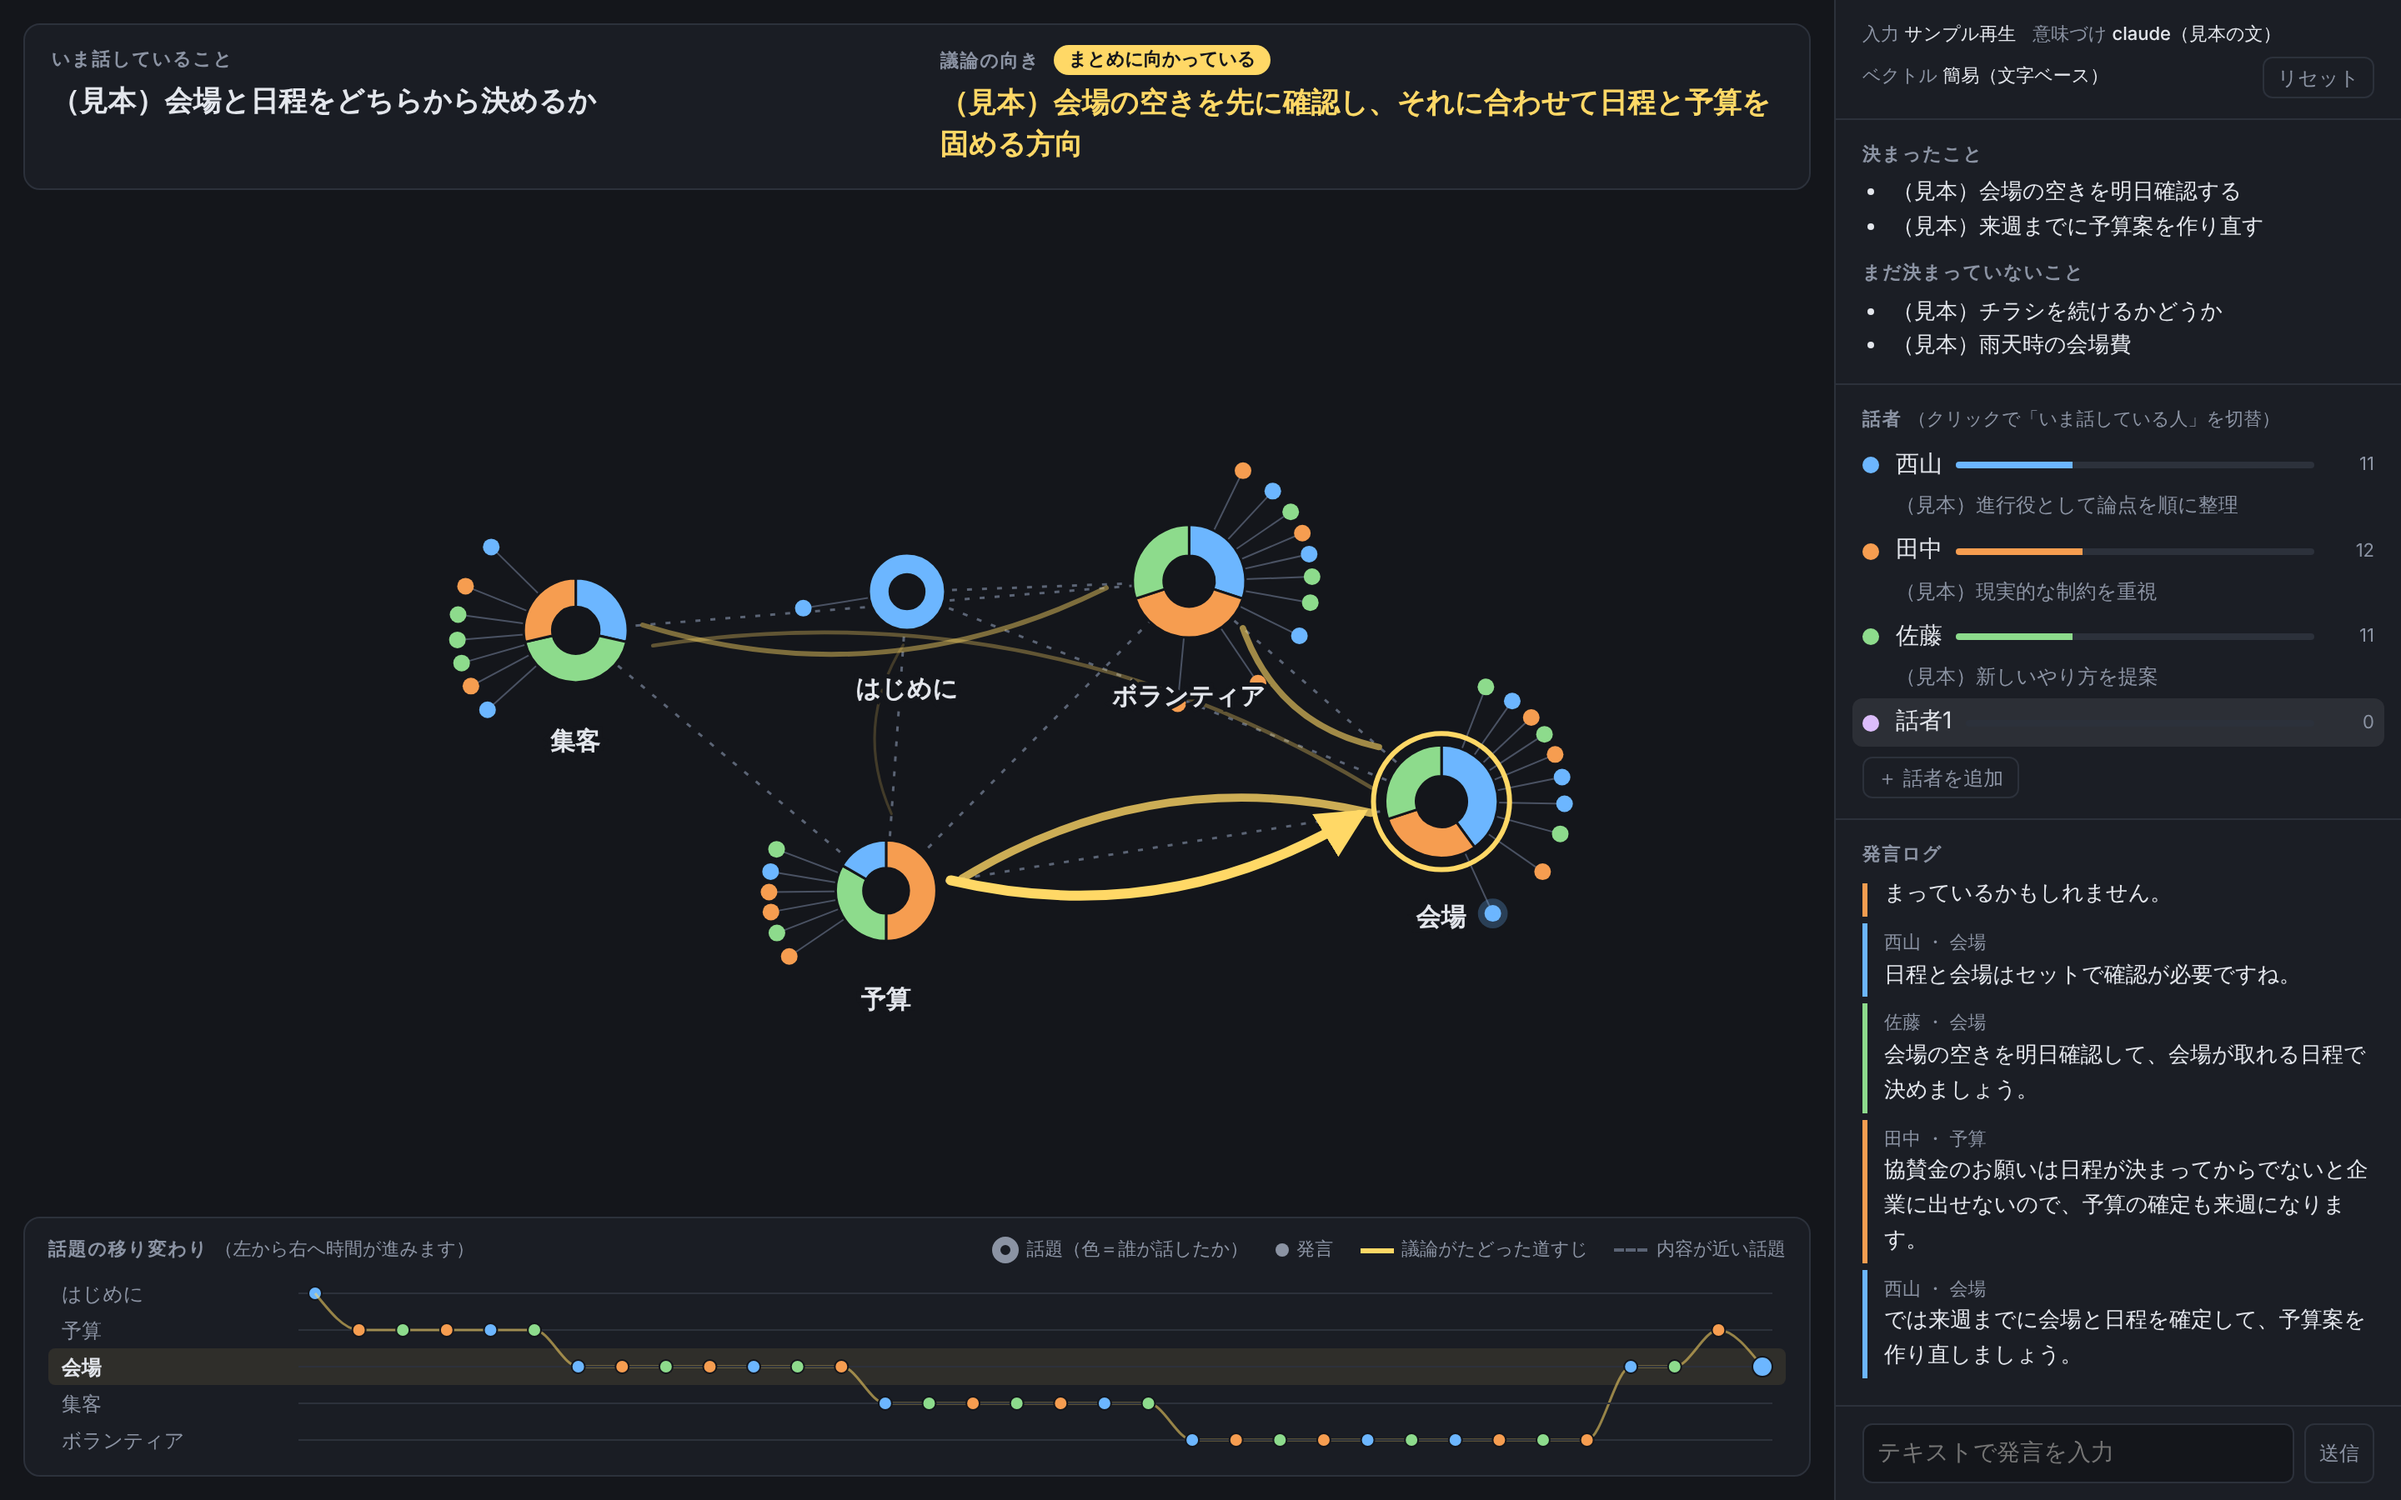
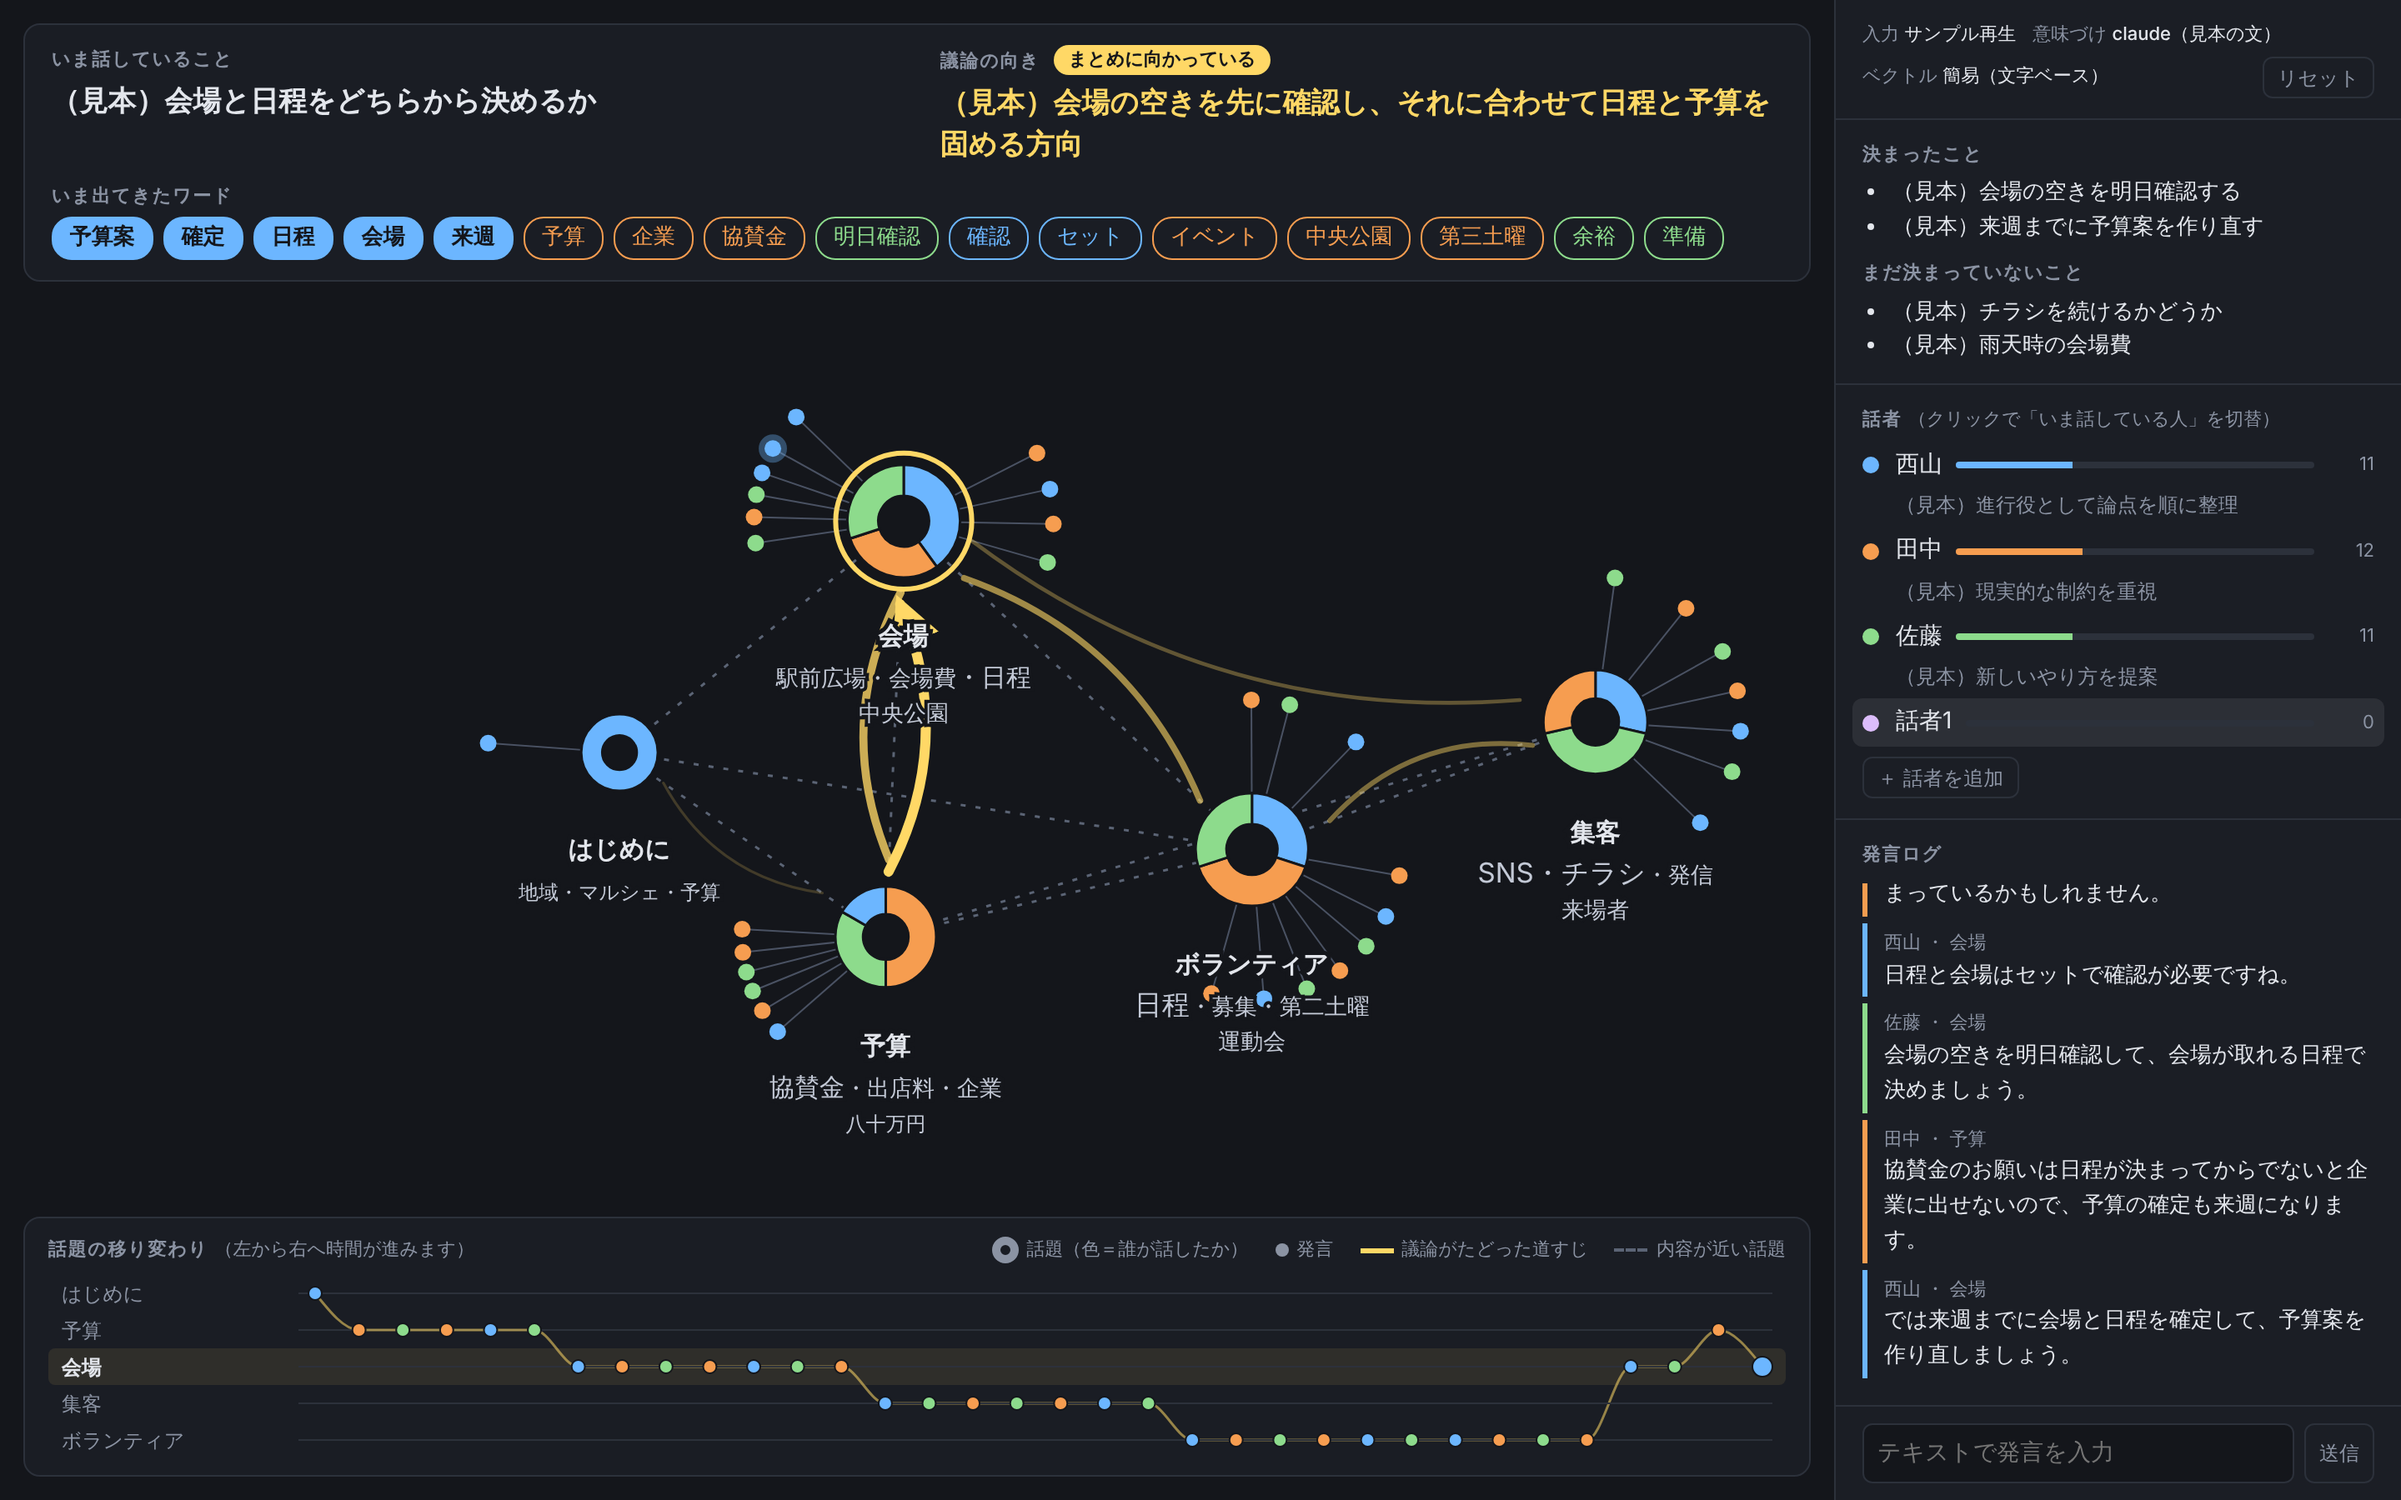
会話マップに出てきたワードを表示する
直近の発言で出た語を上の帯に、話題ごとによく出た語を話題名の下に出す。
語は漢字・カタカナ・英字のまとまりをローカルで拾う。

Claude-Session: https://claude.ai/code/session_016zTmgzcFwx5NbARNRL2Htv

diff --git a/kaiwa-map/static/index.html b/kaiwa-map/static/index.html
@@ -26,6 +26,11 @@
   #phase { display: inline-block; margin-left: 8px; padding: 0 9px; border-radius: 10px; font-size: 11px; letter-spacing: 0;
     background: var(--accent); color: #14161b; font-weight: 700; vertical-align: 1px; }
   #phase:empty { display: none; }
+  #recent { grid-column: 1 / -1; margin-top: 4px; }
+  #words { display: flex; flex-wrap: wrap; gap: 6px; min-height: 26px; }
+  #words span { padding: 1px 10px; border-radius: 12px; border: 1px solid; font-size: 13px; white-space: nowrap; }
+  #words span.new { font-weight: 700; color: #14161b !important; }
+  .kw { text-anchor: middle; fill: #c3c9d6; paint-order: stroke; stroke: var(--bg); stroke-width: 4px; }
 
   /* 下：話題の移り変わり */
   #flow { left: 14px; right: 14px; bottom: 14px; padding: 10px 14px 8px; }
@@ -71,7 +76,7 @@
     border-radius: 6px; padding: 6px 8px; font: inherit; }
 
   .tlabel { fill: var(--text); font-size: 15px; font-weight: 700; text-anchor: middle; paint-order: stroke;
-    stroke: var(--bg); stroke-width: 5px; pointer-events: none; }
+    stroke: var(--bg); stroke-width: 5px; }
   .tlabel.draft { fill: var(--muted); font-weight: 400; font-size: 13px; }
   .ring { fill: none; stroke: var(--accent); stroke-width: 3; opacity: 0; }
   .topic.cur .ring { opacity: 1; }
@@ -95,6 +100,7 @@
   <div id="head" class="card">
     <div><h2>いま話していること</h2><div id="now"></div></div>
     <div><h2>議論の向き<span id="phase"></span></h2><div id="dir"></div></div>
+    <div id="recent"><h2>いま出てきたワード</h2><div id="words"></div></div>
   </div>
   <div id="flow" class="card">
     <h2>話題の移り変わり <span class="muted" style="letter-spacing:0;font-weight:400">（左から右へ時間が進みます）</span>
@@ -145,10 +151,10 @@ const centerY = () => {   // 上下のカードを避けた中央
 };
 
 const sim = d3.forceSimulation()
-  .force("charge", d3.forceManyBody().strength(d => d.kind === "t" ? -900 : -25))
+  .force("charge", d3.forceManyBody().strength(d => d.kind === "t" ? -1200 : -25))
   .force("x", d3.forceX(() => $("#map").clientWidth / 2).strength(0.03))
   .force("y", d3.forceY(centerY).strength(0.09))
-  .force("collide", d3.forceCollide(d => d.kind === "t" ? tr(d.data) + 34 : 6))
+  .force("collide", d3.forceCollide(d => d.kind === "t" ? tr(d.data) + 50 : 6))
   .on("tick", tick);
 
 function syncGraph() {
@@ -222,6 +228,7 @@ function syncGraph() {
       g.append("circle").attr("class", "hit").attr("fill", "#14161b");
       g.append("g").attr("class", "pie");
       g.append("text").attr("class", "tlabel");
+      g.append("text").attr("class", "kw");
       return g;
     })
     .classed("cur", d => d.data.id === state.current_topic)
@@ -235,6 +242,17 @@ function syncGraph() {
         .attr("fill", a => color(a.data[0])).attr("stroke", "#14161b").attr("stroke-width", 1.5);
       g.select(".tlabel").attr("y", r + 40).classed("draft", !d.data.labeled)
         .text(d.data.label + (d.data.labeled ? "" : "…"));
+      // その話題で出てきたワード：多く出た語ほど大きく、1行12文字を目安に折り返す
+      const lines = [[]];
+      for (const [w, n] of d.data.words.filter(([w]) => w !== d.data.label)) {
+        const cur = lines[lines.length - 1];
+        if (cur.length && cur.reduce((a, x) => a + x[0].length + 1, 0) + w.length > 12) lines.push([[w, n]]);
+        else cur.push([w, n]);
+      }
+      g.select(".kw").attr("y", r + 44).selectAll("tspan.l").data(lines.filter(l => l.length)).join("tspan")
+        .attr("class", "l").attr("x", 0).attr("dy", "1.5em")
+        .selectAll("tspan").data(l => l).join("tspan")
+        .attr("font-size", ([, n]) => Math.min(12 + (n - 1) * 1.5, 17)).text(([w], i) => (i ? "・" : "") + w);
     });
 }
 
@@ -311,6 +329,12 @@ function render() {
   $("#dir").textContent = state.direction || wait;
   $("#dir").style.cssText = state.direction ? "" : "font-size:13px;font-weight:400;color:var(--muted)";
   $("#phase").textContent = state.phase;
+  // 直近の発言から、新しく出た順にワードを並べる（色＝その語を言った人、塗りつぶし＝最新の発言）
+  const seen = new Map(), lastId = state.utts.length - 1;
+  for (const u of state.utts.slice(-8)) for (const w of u.words) { seen.delete(w); seen.set(w, u); }
+  $("#words").innerHTML = [...seen].slice(-16).reverse().map(([w, u]) =>
+    `<span class="${u.id === lastId ? "new" : ""}" style="color:${color(u.speaker)};border-color:${color(u.speaker)};` +
+    `${u.id === lastId ? `background:${color(u.speaker)}` : ""}">${esc(w)}</span>`).join("") || '<span class="muted" style="border:0;padding:0">—</span>';
 
   const list = (title, items) => `<h2>${title}</h2>` +
     (items.length ? `<ul>${items.map(i => `<li>${esc(i)}</li>`).join("")}</ul>` : `<ul class="muted" style="list-style:none;padding:0">${state.direction ? "まだありません" : wait}</ul>`);

diff --git a/kaiwa-map/app.py b/kaiwa-map/app.py
@@ -66,6 +66,18 @@ class Embedder:
         return v
 
 
+# ---------- 出てきたワードの抜き出し ----------
+
+WORD_RE = re.compile(r"[一-龥々ヶ]{2,8}|[ァ-ヴー]{3,}|[A-Za-z][A-Za-z0-9]+")
+STOP = set("今日 明日 昨日 今年 去年 来年 今回 次回 前回 最初 最後 必要 場合 感じ 自分 本当 大丈夫 以上 以下 一つ 二つ "
+           "意味 一番 全部 一緒 最近 結構 多分 普通 問題 部分 以外 時間 可能 現実的 効率的 今年度".split())
+
+
+def extract_words(text: str) -> list[str]:
+    """漢字・カタカナ・英字のまとまりを語として拾う（形態素解析なしの簡易版）。"""
+    return list(dict.fromkeys(w for w in WORD_RE.findall(text) if w not in STOP))
+
+
 # ---------- 会話の状態 ----------
 
 class Board:
@@ -101,7 +113,8 @@ class Board:
             topic["sum"] = topic["sum"] + vec
             n = float(np.linalg.norm(topic["sum"]))
             topic["centroid"] = topic["sum"] / n if n else vec
-        utt = {"id": len(self.utts), "t": time.time(), "speaker": speaker, "text": text, "topic": topic["id"]}
+        utt = {"id": len(self.utts), "t": time.time(), "speaker": speaker, "text": text, "topic": topic["id"],
+               "words": extract_words(text)}
         topic["utts"].append(utt["id"])
         self.utts.append(utt)
         self.vecs.append(vec)
@@ -135,14 +148,24 @@ class Board:
         names = list(dict.fromkeys([u["speaker"] for u in self.utts] + self.extra_speakers + [self.current_speaker]))
         counts = {n: 0 for n in names}
         topics = []
+        tf: list[dict[str, int]] = []  # 話題ごとの語の出現数
+        for t in self.topics:
+            c: dict[str, int] = {}
+            for uid in t["utts"]:
+                for w in self.utts[uid]["words"]:
+                    c[w] = c.get(w, 0) + 1
+            tf.append(c)
         for t in self.topics:
             shares: dict[str, int] = {}
             for uid in t["utts"]:
                 sp = self.utts[uid]["speaker"]
                 shares[sp] = shares.get(sp, 0) + 1
                 counts[sp] += 1
+            # その話題でよく出て、ほかの話題にはあまり出ない語を上位に
+            score = lambda w, n: n * (1 + np.log(len(tf) / sum(1 for c in tf if w in c)))
+            words = sorted(tf[t["id"]].items(), key=lambda kv: -score(*kv))[:5]
             topics.append({"id": t["id"], "label": t["label"] or t["fallback"], "labeled": bool(t["label"]),
-                           "summary": t["summary"], "count": len(t["utts"]), "shares": shares})
+                           "summary": t["summary"], "count": len(t["utts"]), "shares": shares, "words": words})
         links = []
         for i, a in enumerate(self.topics):
             for b in self.topics[i + 1 :]:

diff --git a/kaiwa-map/README.md b/kaiwa-map/README.md
@@ -8,6 +8,7 @@
 
 - **上の帯**：いま話していることと、議論全体がどこへ向かっているか。
 - **地図**：大きな円が話題、まわりの小さな点が発言です。色は話者で、円の色の割合は「その話題を誰がどれだけ話したか」を表します。
+- **出てきたワード**：上の帯に直近の発言で出た語（色＝言った人、塗りつぶし＝最新の発言）、各話題の下にその話題でよく出た語（多いほど大きい）を表示します。語は漢字・カタカナ・英字のまとまりを機械的に拾っています。
 - **黄色い線**：議論がたどった道すじ。新しい移動ほど太く濃く、最後の1本に矢印が付きます。黄色い輪がいまの話題です。
 - **下の帯**：話題の移り変わり。行が話題、左から右へ時間が進みます。
 - **右**：決まったこと、まだ決まっていないこと、各話者のスタンス、発言ログ。
